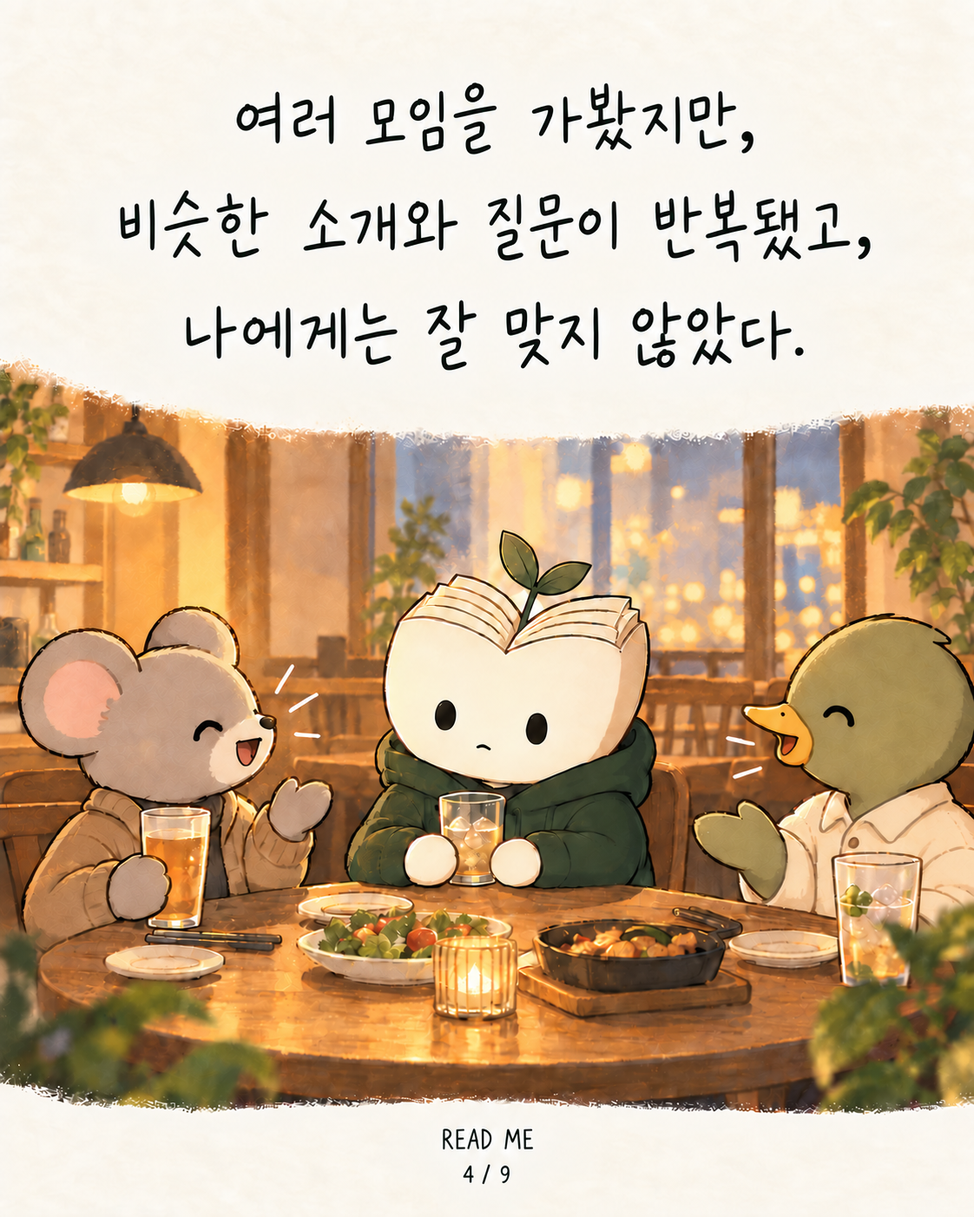
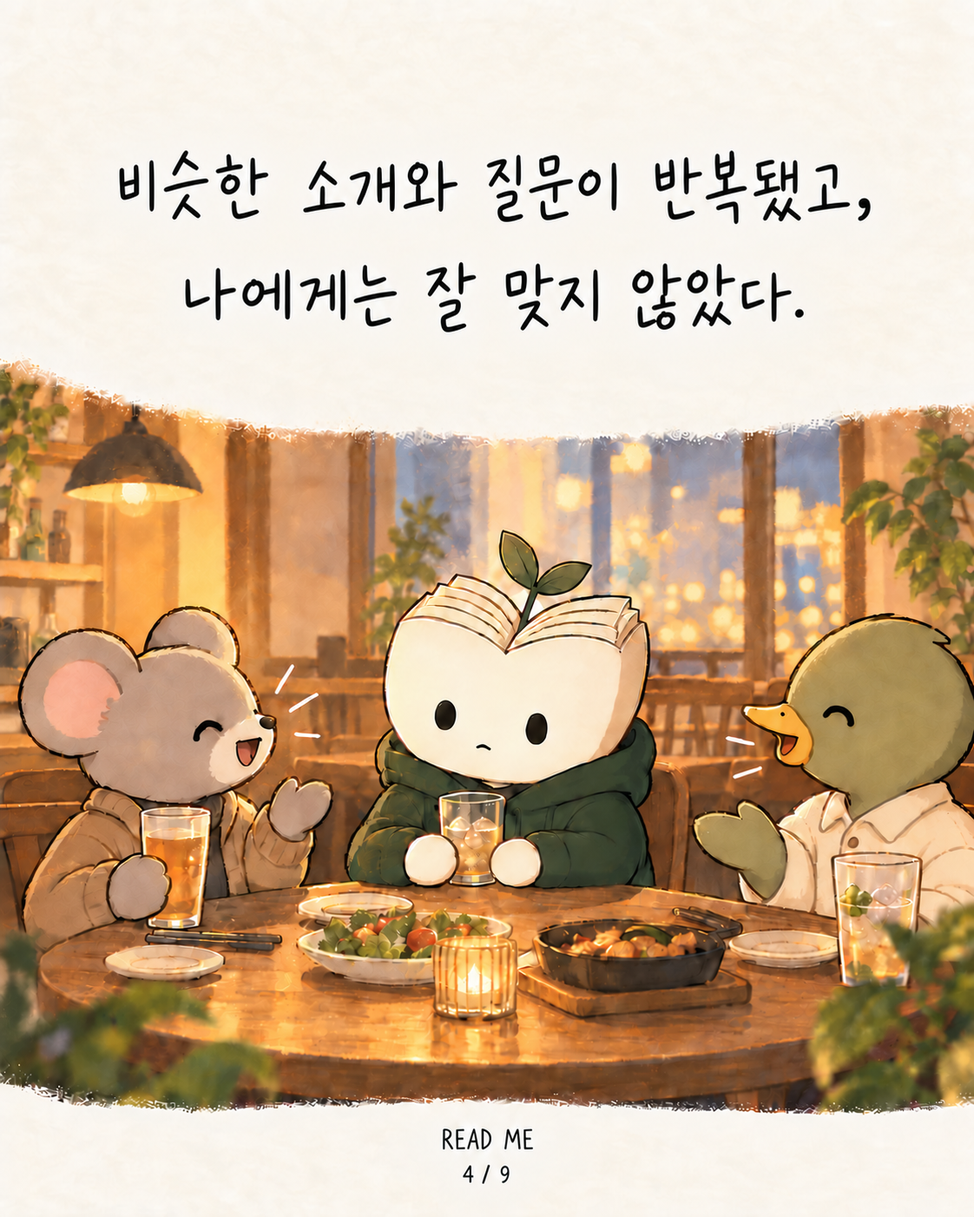
FIXED. 인스타툰 2편 4컷 중복 문구 수정

diff --git a/docs/social/전체-미리보기.html b/docs/social/전체-미리보기.html
@@ -1,4 +1,4 @@
-<!doctype html><html lang="ko"><head><meta charset="utf-8"><meta name="viewport" content="width=device-width,initial-scale=1"><title>READ ME 인스타툰 최종본</title><style>:root{--cream:#f7f3e7;--sand:#eadfc6;--sage:#9bae8f;--forest:#5b6b57;--ink:#3b3a34;--paper:#fffdf7;--muted:#716f65;--line:rgba(59,58,52,.14)}*{box-sizing:border-box}body{margin:0;background:var(--cream);color:var(--ink);font-family:"Noto Sans KR",sans-serif}main{max-width:1120px;margin:auto;padding:32px 24px}a{color:var(--forest);overflow-wrap:anywhere}nav{display:flex;flex-wrap:wrap;gap:12px}nav a{padding:10px;border:1px solid var(--line)}section{margin-top:48px}h1,h2{word-break:keep-all}.grid{display:grid;grid-template-columns:repeat(3,minmax(0,1fr));gap:16px}img{display:block;width:100%;height:auto}@media(max-width:820px){.grid{grid-template-columns:repeat(2,minmax(0,1fr))}}@media(max-width:430px){main{padding:20px 12px}.grid{grid-template-columns:1fr}}[hidden]{display:none!important}nav a[aria-current="page"]{background:var(--forest);color:var(--paper)}nav a:focus-visible{outline:2px solid var(--forest);outline-offset:3px}</style></head><body><main><h1>READ ME 인스타툰 최종본</h1><p>기존 1~8편과 7-1~7-5 확장편 · 총 103장. 각 편은 현재 폴더에서 수정합니다.</p><nav aria-label="편 선택"><a href="#1" aria-current="page">01편</a><a href="#2">02편</a><a href="#3">03편</a><a href="#4">04편</a><a href="#5">05편</a><a href="#6">06편</a><a href="#7">07편</a><a href="#7-1">7-1편</a><a href="#7-2">7-2편</a><a href="#7-3">7-3편</a><a href="#7-4">7-4편</a><a href="#7-5">7-5편</a><a href="#8">08편</a></nav><section id="1"><h2>01-인간관계</h2><p>10장 · <a href="01-인간관계/미리보기.html">이 편 보기</a></p><div class="grid"><a href="01-인간관계/01.png?v=f6530659d1"><img src="01-인간관계/01.png?v=f6530659d1" alt="01-인간관계 1장" loading="lazy"></a><a href="01-인간관계/02.png?v=2af6beccf6"><img src="01-인간관계/02.png?v=2af6beccf6" alt="01-인간관계 2장" loading="lazy"></a><a href="01-인간관계/03.png?v=92ff636abc"><img src="01-인간관계/03.png?v=92ff636abc" alt="01-인간관계 3장" loading="lazy"></a><a href="01-인간관계/04.png?v=a4715f626d"><img src="01-인간관계/04.png?v=a4715f626d" alt="01-인간관계 4장" loading="lazy"></a><a href="01-인간관계/05.png?v=0827a50b40"><img src="01-인간관계/05.png?v=0827a50b40" alt="01-인간관계 5장" loading="lazy"></a><a href="01-인간관계/06.png?v=0fdcc19c5c"><img src="01-인간관계/06.png?v=0fdcc19c5c" alt="01-인간관계 6장" loading="lazy"></a><a href="01-인간관계/07.png?v=472e8e2341"><img src="01-인간관계/07.png?v=472e8e2341" alt="01-인간관계 7장" loading="lazy"></a><a href="01-인간관계/08.png?v=42a75f7eb0"><img src="01-인간관계/08.png?v=42a75f7eb0" alt="01-인간관계 8장" loading="lazy"></a><a href="01-인간관계/09.png?v=77522bc16a"><img src="01-인간관계/09.png?v=77522bc16a" alt="01-인간관계 9장" loading="lazy"></a><a href="01-인간관계/10.png?v=ebeded8296"><img src="01-인간관계/10.png?v=ebeded8296" alt="01-인간관계 10장" loading="lazy"></a></div></section><section id="2" hidden><h2>02-결이맞는사람</h2><p>9장 · <a href="02-결이맞는사람/미리보기.html">이 편 보기</a></p><div class="grid"><a href="02-결이맞는사람/01.png?v=264bd3b8b0"><img src="02-결이맞는사람/01.png?v=264bd3b8b0" alt="02-결이맞는사람 1장" loading="lazy"></a><a href="02-결이맞는사람/02.png?v=4cbba1f130"><img src="02-결이맞는사람/02.png?v=4cbba1f130" alt="02-결이맞는사람 2장" loading="lazy"></a><a href="02-결이맞는사람/03.png?v=fdcf5b74c9"><img src="02-결이맞는사람/03.png?v=fdcf5b74c9" alt="02-결이맞는사람 3장" loading="lazy"></a><a href="02-결이맞는사람/04.png?v=973f494f32"><img src="02-결이맞는사람/04.png?v=973f494f32" alt="02-결이맞는사람 4장" loading="lazy"></a><a href="02-결이맞는사람/05.png?v=9de6945f77"><img src="02-결이맞는사람/05.png?v=9de6945f77" alt="02-결이맞는사람 5장" loading="lazy"></a><a href="02-결이맞는사람/06.png?v=71379b246e"><img src="02-결이맞는사람/06.png?v=71379b246e" alt="02-결이맞는사람 6장" loading="lazy"></a><a href="02-결이맞는사람/07.png?v=acae4ace5d"><img src="02-결이맞는사람/07.png?v=acae4ace5d" alt="02-결이맞는사람 7장" loading="lazy"></a><a href="02-결이맞는사람/08.png?v=5f58d21de6"><img src="02-결이맞는사람/08.png?v=5f58d21de6" alt="02-결이맞는사람 8장" loading="lazy"></a><a href="02-결이맞는사람/09.png?v=448ca64fa5"><img src="02-결이맞는사람/09.png?v=448ca64fa5" alt="02-결이맞는사람 9장" loading="lazy"></a></div></section><section id="3" hidden><h2>03-같이나아갈사람</h2><p>6장 · <a href="03-같이나아갈사람/미리보기.html">이 편 보기</a></p><div class="grid"><a href="03-같이나아갈사람/01.png?v=ed73741b11"><img src="03-같이나아갈사람/01.png?v=ed73741b11" alt="03-같이나아갈사람 1장" loading="lazy"></a><a href="03-같이나아갈사람/02.png?v=788a7e2821"><img src="03-같이나아갈사람/02.png?v=788a7e2821" alt="03-같이나아갈사람 2장" loading="lazy"></a><a href="03-같이나아갈사람/03.png?v=17601be4a8"><img src="03-같이나아갈사람/03.png?v=17601be4a8" alt="03-같이나아갈사람 3장" loading="lazy"></a><a href="03-같이나아갈사람/04.png?v=f4704627a1"><img src="03-같이나아갈사람/04.png?v=f4704627a1" alt="03-같이나아갈사람 4장" loading="lazy"></a><a href="03-같이나아갈사람/05.png?v=55ba4e1e06"><img src="03-같이나아갈사람/05.png?v=55ba4e1e06" alt="03-같이나아갈사람 5장" loading="lazy"></a><a href="03-같이나아갈사람/06.png?v=077c74721f"><img src="03-같이나아갈사람/06.png?v=077c74721f" alt="03-같이나아갈사람 6장" loading="lazy"></a></div></section><section id="4" hidden><h2>04-힘이되는사람</h2><p>7장 · <a href="04-힘이되는사람/미리보기.html">이 편 보기</a></p><div class="grid"><a href="04-힘이되는사람/01.png?v=8100d94b91"><img src="04-힘이되는사람/01.png?v=8100d94b91" alt="04-힘이되는사람 1장" loading="lazy"></a><a href="04-힘이되는사람/02.png?v=bfbad25659"><img src="04-힘이되는사람/02.png?v=bfbad25659" alt="04-힘이되는사람 2장" loading="lazy"></a><a href="04-힘이되는사람/03.png?v=6f98d75c57"><img src="04-힘이되는사람/03.png?v=6f98d75c57" alt="04-힘이되는사람 3장" loading="lazy"></a><a href="04-힘이되는사람/04.png?v=b64bd8e8cb"><img src="04-힘이되는사람/04.png?v=b64bd8e8cb" alt="04-힘이되는사람 4장" loading="lazy"></a><a href="04-힘이되는사람/05.png?v=ed8942b510"><img src="04-힘이되는사람/05.png?v=ed8942b510" alt="04-힘이되는사람 5장" loading="lazy"></a><a href="04-힘이되는사람/06.png?v=f673d6f54d"><img src="04-힘이되는사람/06.png?v=f673d6f54d" alt="04-힘이되는사람 6장" loading="lazy"></a><a href="04-힘이되는사람/07.png?v=acf8b9f665"><img src="04-힘이되는사람/07.png?v=acf8b9f665" alt="04-힘이되는사람 7장" loading="lazy"></a></div></section><section id="5" hidden><h2>05-환경의중요성</h2><p>9장 · <a href="05-환경의중요성/미리보기.html">이 편 보기</a></p><div class="grid"><a href="05-환경의중요성/01.png?v=124d4b9f5c"><img src="05-환경의중요성/01.png?v=124d4b9f5c" alt="05-환경의중요성 1장" loading="lazy"></a><a href="05-환경의중요성/02.png?v=54013d81f8"><img src="05-환경의중요성/02.png?v=54013d81f8" alt="05-환경의중요성 2장" loading="lazy"></a><a href="05-환경의중요성/03.png?v=f58ab16eda"><img src="05-환경의중요성/03.png?v=f58ab16eda" alt="05-환경의중요성 3장" loading="lazy"></a><a href="05-환경의중요성/04.png?v=979f421f6f"><img src="05-환경의중요성/04.png?v=979f421f6f" alt="05-환경의중요성 4장" loading="lazy"></a><a href="05-환경의중요성/05.png?v=1b3de04ac8"><img src="05-환경의중요성/05.png?v=1b3de04ac8" alt="05-환경의중요성 5장" loading="lazy"></a><a href="05-환경의중요성/06.png?v=ff394ed652"><img src="05-환경의중요성/06.png?v=ff394ed652" alt="05-환경의중요성 6장" loading="lazy"></a><a href="05-환경의중요성/07.png?v=fe9d3bcd30"><img src="05-환경의중요성/07.png?v=fe9d3bcd30" alt="05-환경의중요성 7장" loading="lazy"></a><a href="05-환경의중요성/08.png?v=44aca42c69"><img src="05-환경의중요성/08.png?v=44aca42c69" alt="05-환경의중요성 8장" loading="lazy"></a><a href="05-환경의중요성/09.png?v=e9567877d0"><img src="05-환경의중요성/09.png?v=e9567877d0" alt="05-환경의중요성 9장" loading="lazy"></a></div></section><section id="6" hidden><h2>06-직접만든이유</h2><p>7장 · <a href="06-직접만든이유/미리보기.html">이 편 보기</a></p><div class="grid"><a href="06-직접만든이유/01.png?v=6f16d05a30"><img src="06-직접만든이유/01.png?v=6f16d05a30" alt="06-직접만든이유 1장" loading="lazy"></a><a href="06-직접만든이유/02.png?v=5da92f9602"><img src="06-직접만든이유/02.png?v=5da92f9602" alt="06-직접만든이유 2장" loading="lazy"></a><a href="06-직접만든이유/03.png?v=ef615db151"><img src="06-직접만든이유/03.png?v=ef615db151" alt="06-직접만든이유 3장" loading="lazy"></a><a href="06-직접만든이유/04.png?v=55a07de5a8"><img src="06-직접만든이유/04.png?v=55a07de5a8" alt="06-직접만든이유 4장" loading="lazy"></a><a href="06-직접만든이유/05.png?v=c209f0e74f"><img src="06-직접만든이유/05.png?v=c209f0e74f" alt="06-직접만든이유 5장" loading="lazy"></a><a href="06-직접만든이유/06.png?v=84f44f9c7f"><img src="06-직접만든이유/06.png?v=84f44f9c7f" alt="06-직접만든이유 6장" loading="lazy"></a><a href="06-직접만든이유/07.png?v=9ae2be7dd7"><img src="06-직접만든이유/07.png?v=9ae2be7dd7" alt="06-직접만든이유 7장" loading="lazy"></a></div></section><section id="7" hidden><h2>07-마음이채워지는대화</h2><p>7장 · <a href="07-마음이채워지는대화/미리보기.html">이 편 보기</a></p><div class="grid"><a href="07-마음이채워지는대화/01.png?v=39b0405240"><img src="07-마음이채워지는대화/01.png?v=39b0405240" alt="07-마음이채워지는대화 1장" loading="lazy"></a><a href="07-마음이채워지는대화/02.png?v=e5f816d622"><img src="07-마음이채워지는대화/02.png?v=e5f816d622" alt="07-마음이채워지는대화 2장" loading="lazy"></a><a href="07-마음이채워지는대화/03.png?v=ae685cedb3"><img src="07-마음이채워지는대화/03.png?v=ae685cedb3" alt="07-마음이채워지는대화 3장" loading="lazy"></a><a href="07-마음이채워지는대화/04.png?v=a63e07f592"><img src="07-마음이채워지는대화/04.png?v=a63e07f592" alt="07-마음이채워지는대화 4장" loading="lazy"></a><a href="07-마음이채워지는대화/05.png?v=4ca097f0b0"><img src="07-마음이채워지는대화/05.png?v=4ca097f0b0" alt="07-마음이채워지는대화 5장" loading="lazy"></a><a href="07-마음이채워지는대화/06.png?v=09a7210a58"><img src="07-마음이채워지는대화/06.png?v=09a7210a58" alt="07-마음이채워지는대화 6장" loading="lazy"></a><a href="07-마음이채워지는대화/07.png?v=7f04851a70"><img src="07-마음이채워지는대화/07.png?v=7f04851a70" alt="07-마음이채워지는대화 7장" loading="lazy"></a></div></section><section id="7-1" hidden><h2>7-1-친한사람에게도-못했던말을-꺼냈다</h2><p>8장 · <a href="7-1-친한사람에게도-못했던말을-꺼냈다/미리보기.html">이 편 보기</a></p><div class="grid"><a href="7-1-친한사람에게도-못했던말을-꺼냈다/01.png?v=64ef2f2fa5"><img src="7-1-친한사람에게도-못했던말을-꺼냈다/01.png?v=64ef2f2fa5" alt="7-1-친한사람에게도-못했던말을-꺼냈다 1장" loading="lazy"></a><a href="7-1-친한사람에게도-못했던말을-꺼냈다/02.png?v=268a2c60f3"><img src="7-1-친한사람에게도-못했던말을-꺼냈다/02.png?v=268a2c60f3" alt="7-1-친한사람에게도-못했던말을-꺼냈다 2장" loading="lazy"></a><a href="7-1-친한사람에게도-못했던말을-꺼냈다/03.png?v=546cfdae7e"><img src="7-1-친한사람에게도-못했던말을-꺼냈다/03.png?v=546cfdae7e" alt="7-1-친한사람에게도-못했던말을-꺼냈다 3장" loading="lazy"></a><a href="7-1-친한사람에게도-못했던말을-꺼냈다/04.png?v=ec3f204fc7"><img src="7-1-친한사람에게도-못했던말을-꺼냈다/04.png?v=ec3f204fc7" alt="7-1-친한사람에게도-못했던말을-꺼냈다 4장" loading="lazy"></a><a href="7-1-친한사람에게도-못했던말을-꺼냈다/05.png?v=fe61a55f8c"><img src="7-1-친한사람에게도-못했던말을-꺼냈다/05.png?v=fe61a55f8c" alt="7-1-친한사람에게도-못했던말을-꺼냈다 5장" loading="lazy"></a><a href="7-1-친한사람에게도-못했던말을-꺼냈다/06.png?v=9ee9529ecf"><img src="7-1-친한사람에게도-못했던말을-꺼냈다/06.png?v=9ee9529ecf" alt="7-1-친한사람에게도-못했던말을-꺼냈다 6장" loading="lazy"></a><a href="7-1-친한사람에게도-못했던말을-꺼냈다/07.png?v=048ae1f4be"><img src="7-1-친한사람에게도-못했던말을-꺼냈다/07.png?v=048ae1f4be" alt="7-1-친한사람에게도-못했던말을-꺼냈다 7장" loading="lazy"></a><a href="7-1-친한사람에게도-못했던말을-꺼냈다/08.png?v=e48b834b40"><img src="7-1-친한사람에게도-못했던말을-꺼냈다/08.png?v=e48b834b40" alt="7-1-친한사람에게도-못했던말을-꺼냈다 8장" loading="lazy"></a></div></section><section id="7-2" hidden><h2>7-2-말하고나서야-내마음을-알았다</h2><p>8장 · <a href="7-2-말하고나서야-내마음을-알았다/미리보기.html">이 편 보기</a></p><div class="grid"><a href="7-2-말하고나서야-내마음을-알았다/01.png?v=459466cc53"><img src="7-2-말하고나서야-내마음을-알았다/01.png?v=459466cc53" alt="7-2-말하고나서야-내마음을-알았다 1장" loading="lazy"></a><a href="7-2-말하고나서야-내마음을-알았다/02.png?v=de228fa564"><img src="7-2-말하고나서야-내마음을-알았다/02.png?v=de228fa564" alt="7-2-말하고나서야-내마음을-알았다 2장" loading="lazy"></a><a href="7-2-말하고나서야-내마음을-알았다/03.png?v=a2d7ab2a9d"><img src="7-2-말하고나서야-내마음을-알았다/03.png?v=a2d7ab2a9d" alt="7-2-말하고나서야-내마음을-알았다 3장" loading="lazy"></a><a href="7-2-말하고나서야-내마음을-알았다/04.png?v=ffc8d2dd8b"><img src="7-2-말하고나서야-내마음을-알았다/04.png?v=ffc8d2dd8b" alt="7-2-말하고나서야-내마음을-알았다 4장" loading="lazy"></a><a href="7-2-말하고나서야-내마음을-알았다/05.png?v=e9c60defa1"><img src="7-2-말하고나서야-내마음을-알았다/05.png?v=e9c60defa1" alt="7-2-말하고나서야-내마음을-알았다 5장" loading="lazy"></a><a href="7-2-말하고나서야-내마음을-알았다/06.png?v=620fa4451c"><img src="7-2-말하고나서야-내마음을-알았다/06.png?v=620fa4451c" alt="7-2-말하고나서야-내마음을-알았다 6장" loading="lazy"></a><a href="7-2-말하고나서야-내마음을-알았다/07.png?v=569dfd7099"><img src="7-2-말하고나서야-내마음을-알았다/07.png?v=569dfd7099" alt="7-2-말하고나서야-내마음을-알았다 7장" loading="lazy"></a><a href="7-2-말하고나서야-내마음을-알았다/08.png?v=41411ef812"><img src="7-2-말하고나서야-내마음을-알았다/08.png?v=41411ef812" alt="7-2-말하고나서야-내마음을-알았다 8장" loading="lazy"></a></div></section><section id="7-3" hidden><h2>7-3-생각이다른데도-대화가편했다</h2><p>8장 · <a href="7-3-생각이다른데도-대화가편했다/미리보기.html">이 편 보기</a></p><div class="grid"><a href="7-3-생각이다른데도-대화가편했다/01.png?v=4daec09531"><img src="7-3-생각이다른데도-대화가편했다/01.png?v=4daec09531" alt="7-3-생각이다른데도-대화가편했다 1장" loading="lazy"></a><a href="7-3-생각이다른데도-대화가편했다/02.png?v=5244f608b3"><img src="7-3-생각이다른데도-대화가편했다/02.png?v=5244f608b3" alt="7-3-생각이다른데도-대화가편했다 2장" loading="lazy"></a><a href="7-3-생각이다른데도-대화가편했다/03.png?v=17dc23714d"><img src="7-3-생각이다른데도-대화가편했다/03.png?v=17dc23714d" alt="7-3-생각이다른데도-대화가편했다 3장" loading="lazy"></a><a href="7-3-생각이다른데도-대화가편했다/04.png?v=2b78159773"><img src="7-3-생각이다른데도-대화가편했다/04.png?v=2b78159773" alt="7-3-생각이다른데도-대화가편했다 4장" loading="lazy"></a><a href="7-3-생각이다른데도-대화가편했다/05.png?v=b54261920a"><img src="7-3-생각이다른데도-대화가편했다/05.png?v=b54261920a" alt="7-3-생각이다른데도-대화가편했다 5장" loading="lazy"></a><a href="7-3-생각이다른데도-대화가편했다/06.png?v=5a5409cac8"><img src="7-3-생각이다른데도-대화가편했다/06.png?v=5a5409cac8" alt="7-3-생각이다른데도-대화가편했다 6장" loading="lazy"></a><a href="7-3-생각이다른데도-대화가편했다/07.png?v=15a74822e1"><img src="7-3-생각이다른데도-대화가편했다/07.png?v=15a74822e1" alt="7-3-생각이다른데도-대화가편했다 7장" loading="lazy"></a><a href="7-3-생각이다른데도-대화가편했다/08.png?v=3c578579ec"><img src="7-3-생각이다른데도-대화가편했다/08.png?v=3c578579ec" alt="7-3-생각이다른데도-대화가편했다 8장" loading="lazy"></a></div></section><section id="7-4" hidden><h2>7-4-쌓아두던책을-펼치게됐다</h2><p>8장 · <a href="7-4-쌓아두던책을-펼치게됐다/미리보기.html">이 편 보기</a></p><div class="grid"><a href="7-4-쌓아두던책을-펼치게됐다/01.png?v=db281463e6"><img src="7-4-쌓아두던책을-펼치게됐다/01.png?v=db281463e6" alt="7-4-쌓아두던책을-펼치게됐다 1장" loading="lazy"></a><a href="7-4-쌓아두던책을-펼치게됐다/02.png?v=2eeb449bf7"><img src="7-4-쌓아두던책을-펼치게됐다/02.png?v=2eeb449bf7" alt="7-4-쌓아두던책을-펼치게됐다 2장" loading="lazy"></a><a href="7-4-쌓아두던책을-펼치게됐다/03.png?v=eb45c9f756"><img src="7-4-쌓아두던책을-펼치게됐다/03.png?v=eb45c9f756" alt="7-4-쌓아두던책을-펼치게됐다 3장" loading="lazy"></a><a href="7-4-쌓아두던책을-펼치게됐다/04.png?v=621b312949"><img src="7-4-쌓아두던책을-펼치게됐다/04.png?v=621b312949" alt="7-4-쌓아두던책을-펼치게됐다 4장" loading="lazy"></a><a href="7-4-쌓아두던책을-펼치게됐다/05.png?v=038d7d4cd8"><img src="7-4-쌓아두던책을-펼치게됐다/05.png?v=038d7d4cd8" alt="7-4-쌓아두던책을-펼치게됐다 5장" loading="lazy"></a><a href="7-4-쌓아두던책을-펼치게됐다/06.png?v=ff6a914471"><img src="7-4-쌓아두던책을-펼치게됐다/06.png?v=ff6a914471" alt="7-4-쌓아두던책을-펼치게됐다 6장" loading="lazy"></a><a href="7-4-쌓아두던책을-펼치게됐다/07.png?v=88f6fe236f"><img src="7-4-쌓아두던책을-펼치게됐다/07.png?v=88f6fe236f" alt="7-4-쌓아두던책을-펼치게됐다 7장" loading="lazy"></a><a href="7-4-쌓아두던책을-펼치게됐다/08.png?v=d5367575fe"><img src="7-4-쌓아두던책을-펼치게됐다/08.png?v=d5367575fe" alt="7-4-쌓아두던책을-펼치게됐다 8장" loading="lazy"></a></div></section><section id="7-5" hidden><h2>7-5-혼자였다면-못했을생각들이-생겼다</h2><p>9장 · <a href="7-5-혼자였다면-못했을생각들이-생겼다/미리보기.html">이 편 보기</a></p><div class="grid"><a href="7-5-혼자였다면-못했을생각들이-생겼다/01.png?v=beee2837f3"><img src="7-5-혼자였다면-못했을생각들이-생겼다/01.png?v=beee2837f3" alt="7-5-혼자였다면-못했을생각들이-생겼다 1장" loading="lazy"></a><a href="7-5-혼자였다면-못했을생각들이-생겼다/02.png?v=dbdb467c90"><img src="7-5-혼자였다면-못했을생각들이-생겼다/02.png?v=dbdb467c90" alt="7-5-혼자였다면-못했을생각들이-생겼다 2장" loading="lazy"></a><a href="7-5-혼자였다면-못했을생각들이-생겼다/03.png?v=ce06197ff1"><img src="7-5-혼자였다면-못했을생각들이-생겼다/03.png?v=ce06197ff1" alt="7-5-혼자였다면-못했을생각들이-생겼다 3장" loading="lazy"></a><a href="7-5-혼자였다면-못했을생각들이-생겼다/04.png?v=ff2d36201b"><img src="7-5-혼자였다면-못했을생각들이-생겼다/04.png?v=ff2d36201b" alt="7-5-혼자였다면-못했을생각들이-생겼다 4장" loading="lazy"></a><a href="7-5-혼자였다면-못했을생각들이-생겼다/05.png?v=ee09d364d9"><img src="7-5-혼자였다면-못했을생각들이-생겼다/05.png?v=ee09d364d9" alt="7-5-혼자였다면-못했을생각들이-생겼다 5장" loading="lazy"></a><a href="7-5-혼자였다면-못했을생각들이-생겼다/06.png?v=91441a97fa"><img src="7-5-혼자였다면-못했을생각들이-생겼다/06.png?v=91441a97fa" alt="7-5-혼자였다면-못했을생각들이-생겼다 6장" loading="lazy"></a><a href="7-5-혼자였다면-못했을생각들이-생겼다/07.png?v=6c60c5229f"><img src="7-5-혼자였다면-못했을생각들이-생겼다/07.png?v=6c60c5229f" alt="7-5-혼자였다면-못했을생각들이-생겼다 7장" loading="lazy"></a><a href="7-5-혼자였다면-못했을생각들이-생겼다/08.png?v=36e4ffed61"><img src="7-5-혼자였다면-못했을생각들이-생겼다/08.png?v=36e4ffed61" alt="7-5-혼자였다면-못했을생각들이-생겼다 8장" loading="lazy"></a><a href="7-5-혼자였다면-못했을생각들이-생겼다/09.png?v=bb17efc276"><img src="7-5-혼자였다면-못했을생각들이-생겼다/09.png?v=bb17efc276" alt="7-5-혼자였다면-못했을생각들이-생겼다 9장" loading="lazy"></a></div></section><section id="8" hidden><h2>8편 · 독서모임을 하고 생긴 변화</h2><p>7장 · <a href="08-일상의변화/미리보기.html">이 편 보기</a></p><div class="grid"><a href="08-일상의변화/01.png?v=23f6775a01"><img src="08-일상의변화/01.png?v=23f6775a01" alt="08-일상의변화 1장" loading="lazy"></a><a href="08-일상의변화/02.png?v=1e1b2d4c82"><img src="08-일상의변화/02.png?v=1e1b2d4c82" alt="08-일상의변화 2장" loading="lazy"></a><a href="08-일상의변화/03.png?v=e849ab9551"><img src="08-일상의변화/03.png?v=e849ab9551" alt="08-일상의변화 3장" loading="lazy"></a><a href="08-일상의변화/04.png?v=348339682b"><img src="08-일상의변화/04.png?v=348339682b" alt="08-일상의변화 4장" loading="lazy"></a><a href="08-일상의변화/05.png?v=f0ec7dada1"><img src="08-일상의변화/05.png?v=f0ec7dada1" alt="08-일상의변화 5장" loading="lazy"></a><a href="08-일상의변화/06.png?v=713523d819"><img src="08-일상의변화/06.png?v=713523d819" alt="08-일상의변화 6장" loading="lazy"></a><a href="08-일상의변화/07.png?v=fcbc16c5d3"><img src="08-일상의변화/07.png?v=fcbc16c5d3" alt="08-일상의변화 7장" loading="lazy"></a></div></section></main><script>
+<!doctype html><html lang="ko"><head><meta charset="utf-8"><meta name="viewport" content="width=device-width,initial-scale=1"><title>READ ME 인스타툰 최종본</title><style>:root{--cream:#f7f3e7;--sand:#eadfc6;--sage:#9bae8f;--forest:#5b6b57;--ink:#3b3a34;--paper:#fffdf7;--muted:#716f65;--line:rgba(59,58,52,.14)}*{box-sizing:border-box}body{margin:0;background:var(--cream);color:var(--ink);font-family:"Noto Sans KR",sans-serif}main{max-width:1120px;margin:auto;padding:32px 24px}a{color:var(--forest);overflow-wrap:anywhere}nav{display:flex;flex-wrap:wrap;gap:12px}nav a{padding:10px;border:1px solid var(--line)}section{margin-top:48px}h1,h2{word-break:keep-all}.grid{display:grid;grid-template-columns:repeat(3,minmax(0,1fr));gap:16px}img{display:block;width:100%;height:auto}@media(max-width:820px){.grid{grid-template-columns:repeat(2,minmax(0,1fr))}}@media(max-width:430px){main{padding:20px 12px}.grid{grid-template-columns:1fr}}[hidden]{display:none!important}nav a[aria-current="page"]{background:var(--forest);color:var(--paper)}nav a:focus-visible{outline:2px solid var(--forest);outline-offset:3px}</style></head><body><main><h1>READ ME 인스타툰 최종본</h1><p>기존 1~8편과 7-1~7-5 확장편 · 총 103장. 각 편은 현재 폴더에서 수정합니다.</p><nav aria-label="편 선택"><a href="#1" aria-current="page">01편</a><a href="#2">02편</a><a href="#3">03편</a><a href="#4">04편</a><a href="#5">05편</a><a href="#6">06편</a><a href="#7">07편</a><a href="#7-1">7-1편</a><a href="#7-2">7-2편</a><a href="#7-3">7-3편</a><a href="#7-4">7-4편</a><a href="#7-5">7-5편</a><a href="#8">08편</a></nav><section id="1"><h2>01-인간관계</h2><p>10장 · <a href="01-인간관계/미리보기.html">이 편 보기</a></p><div class="grid"><a href="01-인간관계/01.png?v=f6530659d1"><img src="01-인간관계/01.png?v=f6530659d1" alt="01-인간관계 1장" loading="lazy"></a><a href="01-인간관계/02.png?v=2af6beccf6"><img src="01-인간관계/02.png?v=2af6beccf6" alt="01-인간관계 2장" loading="lazy"></a><a href="01-인간관계/03.png?v=92ff636abc"><img src="01-인간관계/03.png?v=92ff636abc" alt="01-인간관계 3장" loading="lazy"></a><a href="01-인간관계/04.png?v=a4715f626d"><img src="01-인간관계/04.png?v=a4715f626d" alt="01-인간관계 4장" loading="lazy"></a><a href="01-인간관계/05.png?v=0827a50b40"><img src="01-인간관계/05.png?v=0827a50b40" alt="01-인간관계 5장" loading="lazy"></a><a href="01-인간관계/06.png?v=0fdcc19c5c"><img src="01-인간관계/06.png?v=0fdcc19c5c" alt="01-인간관계 6장" loading="lazy"></a><a href="01-인간관계/07.png?v=472e8e2341"><img src="01-인간관계/07.png?v=472e8e2341" alt="01-인간관계 7장" loading="lazy"></a><a href="01-인간관계/08.png?v=42a75f7eb0"><img src="01-인간관계/08.png?v=42a75f7eb0" alt="01-인간관계 8장" loading="lazy"></a><a href="01-인간관계/09.png?v=77522bc16a"><img src="01-인간관계/09.png?v=77522bc16a" alt="01-인간관계 9장" loading="lazy"></a><a href="01-인간관계/10.png?v=ebeded8296"><img src="01-인간관계/10.png?v=ebeded8296" alt="01-인간관계 10장" loading="lazy"></a></div></section><section id="2" hidden><h2>02-결이맞는사람</h2><p>9장 · <a href="02-결이맞는사람/미리보기.html">이 편 보기</a></p><div class="grid"><a href="02-결이맞는사람/01.png?v=264bd3b8b0"><img src="02-결이맞는사람/01.png?v=264bd3b8b0" alt="02-결이맞는사람 1장" loading="lazy"></a><a href="02-결이맞는사람/02.png?v=4cbba1f130"><img src="02-결이맞는사람/02.png?v=4cbba1f130" alt="02-결이맞는사람 2장" loading="lazy"></a><a href="02-결이맞는사람/03.png?v=fdcf5b74c9"><img src="02-결이맞는사람/03.png?v=fdcf5b74c9" alt="02-결이맞는사람 3장" loading="lazy"></a><a href="02-결이맞는사람/04.png?v=07fdb82af9"><img src="02-결이맞는사람/04.png?v=07fdb82af9" alt="02-결이맞는사람 4장" loading="lazy"></a><a href="02-결이맞는사람/05.png?v=9de6945f77"><img src="02-결이맞는사람/05.png?v=9de6945f77" alt="02-결이맞는사람 5장" loading="lazy"></a><a href="02-결이맞는사람/06.png?v=71379b246e"><img src="02-결이맞는사람/06.png?v=71379b246e" alt="02-결이맞는사람 6장" loading="lazy"></a><a href="02-결이맞는사람/07.png?v=acae4ace5d"><img src="02-결이맞는사람/07.png?v=acae4ace5d" alt="02-결이맞는사람 7장" loading="lazy"></a><a href="02-결이맞는사람/08.png?v=5f58d21de6"><img src="02-결이맞는사람/08.png?v=5f58d21de6" alt="02-결이맞는사람 8장" loading="lazy"></a><a href="02-결이맞는사람/09.png?v=448ca64fa5"><img src="02-결이맞는사람/09.png?v=448ca64fa5" alt="02-결이맞는사람 9장" loading="lazy"></a></div></section><section id="3" hidden><h2>03-같이나아갈사람</h2><p>6장 · <a href="03-같이나아갈사람/미리보기.html">이 편 보기</a></p><div class="grid"><a href="03-같이나아갈사람/01.png?v=ed73741b11"><img src="03-같이나아갈사람/01.png?v=ed73741b11" alt="03-같이나아갈사람 1장" loading="lazy"></a><a href="03-같이나아갈사람/02.png?v=788a7e2821"><img src="03-같이나아갈사람/02.png?v=788a7e2821" alt="03-같이나아갈사람 2장" loading="lazy"></a><a href="03-같이나아갈사람/03.png?v=17601be4a8"><img src="03-같이나아갈사람/03.png?v=17601be4a8" alt="03-같이나아갈사람 3장" loading="lazy"></a><a href="03-같이나아갈사람/04.png?v=f4704627a1"><img src="03-같이나아갈사람/04.png?v=f4704627a1" alt="03-같이나아갈사람 4장" loading="lazy"></a><a href="03-같이나아갈사람/05.png?v=55ba4e1e06"><img src="03-같이나아갈사람/05.png?v=55ba4e1e06" alt="03-같이나아갈사람 5장" loading="lazy"></a><a href="03-같이나아갈사람/06.png?v=077c74721f"><img src="03-같이나아갈사람/06.png?v=077c74721f" alt="03-같이나아갈사람 6장" loading="lazy"></a></div></section><section id="4" hidden><h2>04-힘이되는사람</h2><p>7장 · <a href="04-힘이되는사람/미리보기.html">이 편 보기</a></p><div class="grid"><a href="04-힘이되는사람/01.png?v=8100d94b91"><img src="04-힘이되는사람/01.png?v=8100d94b91" alt="04-힘이되는사람 1장" loading="lazy"></a><a href="04-힘이되는사람/02.png?v=bfbad25659"><img src="04-힘이되는사람/02.png?v=bfbad25659" alt="04-힘이되는사람 2장" loading="lazy"></a><a href="04-힘이되는사람/03.png?v=6f98d75c57"><img src="04-힘이되는사람/03.png?v=6f98d75c57" alt="04-힘이되는사람 3장" loading="lazy"></a><a href="04-힘이되는사람/04.png?v=b64bd8e8cb"><img src="04-힘이되는사람/04.png?v=b64bd8e8cb" alt="04-힘이되는사람 4장" loading="lazy"></a><a href="04-힘이되는사람/05.png?v=ed8942b510"><img src="04-힘이되는사람/05.png?v=ed8942b510" alt="04-힘이되는사람 5장" loading="lazy"></a><a href="04-힘이되는사람/06.png?v=f673d6f54d"><img src="04-힘이되는사람/06.png?v=f673d6f54d" alt="04-힘이되는사람 6장" loading="lazy"></a><a href="04-힘이되는사람/07.png?v=acf8b9f665"><img src="04-힘이되는사람/07.png?v=acf8b9f665" alt="04-힘이되는사람 7장" loading="lazy"></a></div></section><section id="5" hidden><h2>05-환경의중요성</h2><p>9장 · <a href="05-환경의중요성/미리보기.html">이 편 보기</a></p><div class="grid"><a href="05-환경의중요성/01.png?v=124d4b9f5c"><img src="05-환경의중요성/01.png?v=124d4b9f5c" alt="05-환경의중요성 1장" loading="lazy"></a><a href="05-환경의중요성/02.png?v=54013d81f8"><img src="05-환경의중요성/02.png?v=54013d81f8" alt="05-환경의중요성 2장" loading="lazy"></a><a href="05-환경의중요성/03.png?v=f58ab16eda"><img src="05-환경의중요성/03.png?v=f58ab16eda" alt="05-환경의중요성 3장" loading="lazy"></a><a href="05-환경의중요성/04.png?v=979f421f6f"><img src="05-환경의중요성/04.png?v=979f421f6f" alt="05-환경의중요성 4장" loading="lazy"></a><a href="05-환경의중요성/05.png?v=1b3de04ac8"><img src="05-환경의중요성/05.png?v=1b3de04ac8" alt="05-환경의중요성 5장" loading="lazy"></a><a href="05-환경의중요성/06.png?v=ff394ed652"><img src="05-환경의중요성/06.png?v=ff394ed652" alt="05-환경의중요성 6장" loading="lazy"></a><a href="05-환경의중요성/07.png?v=fe9d3bcd30"><img src="05-환경의중요성/07.png?v=fe9d3bcd30" alt="05-환경의중요성 7장" loading="lazy"></a><a href="05-환경의중요성/08.png?v=44aca42c69"><img src="05-환경의중요성/08.png?v=44aca42c69" alt="05-환경의중요성 8장" loading="lazy"></a><a href="05-환경의중요성/09.png?v=e9567877d0"><img src="05-환경의중요성/09.png?v=e9567877d0" alt="05-환경의중요성 9장" loading="lazy"></a></div></section><section id="6" hidden><h2>06-직접만든이유</h2><p>7장 · <a href="06-직접만든이유/미리보기.html">이 편 보기</a></p><div class="grid"><a href="06-직접만든이유/01.png?v=6f16d05a30"><img src="06-직접만든이유/01.png?v=6f16d05a30" alt="06-직접만든이유 1장" loading="lazy"></a><a href="06-직접만든이유/02.png?v=5da92f9602"><img src="06-직접만든이유/02.png?v=5da92f9602" alt="06-직접만든이유 2장" loading="lazy"></a><a href="06-직접만든이유/03.png?v=ef615db151"><img src="06-직접만든이유/03.png?v=ef615db151" alt="06-직접만든이유 3장" loading="lazy"></a><a href="06-직접만든이유/04.png?v=55a07de5a8"><img src="06-직접만든이유/04.png?v=55a07de5a8" alt="06-직접만든이유 4장" loading="lazy"></a><a href="06-직접만든이유/05.png?v=c209f0e74f"><img src="06-직접만든이유/05.png?v=c209f0e74f" alt="06-직접만든이유 5장" loading="lazy"></a><a href="06-직접만든이유/06.png?v=84f44f9c7f"><img src="06-직접만든이유/06.png?v=84f44f9c7f" alt="06-직접만든이유 6장" loading="lazy"></a><a href="06-직접만든이유/07.png?v=9ae2be7dd7"><img src="06-직접만든이유/07.png?v=9ae2be7dd7" alt="06-직접만든이유 7장" loading="lazy"></a></div></section><section id="7" hidden><h2>07-마음이채워지는대화</h2><p>7장 · <a href="07-마음이채워지는대화/미리보기.html">이 편 보기</a></p><div class="grid"><a href="07-마음이채워지는대화/01.png?v=39b0405240"><img src="07-마음이채워지는대화/01.png?v=39b0405240" alt="07-마음이채워지는대화 1장" loading="lazy"></a><a href="07-마음이채워지는대화/02.png?v=e5f816d622"><img src="07-마음이채워지는대화/02.png?v=e5f816d622" alt="07-마음이채워지는대화 2장" loading="lazy"></a><a href="07-마음이채워지는대화/03.png?v=ae685cedb3"><img src="07-마음이채워지는대화/03.png?v=ae685cedb3" alt="07-마음이채워지는대화 3장" loading="lazy"></a><a href="07-마음이채워지는대화/04.png?v=a63e07f592"><img src="07-마음이채워지는대화/04.png?v=a63e07f592" alt="07-마음이채워지는대화 4장" loading="lazy"></a><a href="07-마음이채워지는대화/05.png?v=4ca097f0b0"><img src="07-마음이채워지는대화/05.png?v=4ca097f0b0" alt="07-마음이채워지는대화 5장" loading="lazy"></a><a href="07-마음이채워지는대화/06.png?v=09a7210a58"><img src="07-마음이채워지는대화/06.png?v=09a7210a58" alt="07-마음이채워지는대화 6장" loading="lazy"></a><a href="07-마음이채워지는대화/07.png?v=7f04851a70"><img src="07-마음이채워지는대화/07.png?v=7f04851a70" alt="07-마음이채워지는대화 7장" loading="lazy"></a></div></section><section id="7-1" hidden><h2>7-1-친한사람에게도-못했던말을-꺼냈다</h2><p>8장 · <a href="7-1-친한사람에게도-못했던말을-꺼냈다/미리보기.html">이 편 보기</a></p><div class="grid"><a href="7-1-친한사람에게도-못했던말을-꺼냈다/01.png?v=64ef2f2fa5"><img src="7-1-친한사람에게도-못했던말을-꺼냈다/01.png?v=64ef2f2fa5" alt="7-1-친한사람에게도-못했던말을-꺼냈다 1장" loading="lazy"></a><a href="7-1-친한사람에게도-못했던말을-꺼냈다/02.png?v=268a2c60f3"><img src="7-1-친한사람에게도-못했던말을-꺼냈다/02.png?v=268a2c60f3" alt="7-1-친한사람에게도-못했던말을-꺼냈다 2장" loading="lazy"></a><a href="7-1-친한사람에게도-못했던말을-꺼냈다/03.png?v=546cfdae7e"><img src="7-1-친한사람에게도-못했던말을-꺼냈다/03.png?v=546cfdae7e" alt="7-1-친한사람에게도-못했던말을-꺼냈다 3장" loading="lazy"></a><a href="7-1-친한사람에게도-못했던말을-꺼냈다/04.png?v=ec3f204fc7"><img src="7-1-친한사람에게도-못했던말을-꺼냈다/04.png?v=ec3f204fc7" alt="7-1-친한사람에게도-못했던말을-꺼냈다 4장" loading="lazy"></a><a href="7-1-친한사람에게도-못했던말을-꺼냈다/05.png?v=fe61a55f8c"><img src="7-1-친한사람에게도-못했던말을-꺼냈다/05.png?v=fe61a55f8c" alt="7-1-친한사람에게도-못했던말을-꺼냈다 5장" loading="lazy"></a><a href="7-1-친한사람에게도-못했던말을-꺼냈다/06.png?v=9ee9529ecf"><img src="7-1-친한사람에게도-못했던말을-꺼냈다/06.png?v=9ee9529ecf" alt="7-1-친한사람에게도-못했던말을-꺼냈다 6장" loading="lazy"></a><a href="7-1-친한사람에게도-못했던말을-꺼냈다/07.png?v=048ae1f4be"><img src="7-1-친한사람에게도-못했던말을-꺼냈다/07.png?v=048ae1f4be" alt="7-1-친한사람에게도-못했던말을-꺼냈다 7장" loading="lazy"></a><a href="7-1-친한사람에게도-못했던말을-꺼냈다/08.png?v=e48b834b40"><img src="7-1-친한사람에게도-못했던말을-꺼냈다/08.png?v=e48b834b40" alt="7-1-친한사람에게도-못했던말을-꺼냈다 8장" loading="lazy"></a></div></section><section id="7-2" hidden><h2>7-2-말하고나서야-내마음을-알았다</h2><p>8장 · <a href="7-2-말하고나서야-내마음을-알았다/미리보기.html">이 편 보기</a></p><div class="grid"><a href="7-2-말하고나서야-내마음을-알았다/01.png?v=459466cc53"><img src="7-2-말하고나서야-내마음을-알았다/01.png?v=459466cc53" alt="7-2-말하고나서야-내마음을-알았다 1장" loading="lazy"></a><a href="7-2-말하고나서야-내마음을-알았다/02.png?v=de228fa564"><img src="7-2-말하고나서야-내마음을-알았다/02.png?v=de228fa564" alt="7-2-말하고나서야-내마음을-알았다 2장" loading="lazy"></a><a href="7-2-말하고나서야-내마음을-알았다/03.png?v=a2d7ab2a9d"><img src="7-2-말하고나서야-내마음을-알았다/03.png?v=a2d7ab2a9d" alt="7-2-말하고나서야-내마음을-알았다 3장" loading="lazy"></a><a href="7-2-말하고나서야-내마음을-알았다/04.png?v=ffc8d2dd8b"><img src="7-2-말하고나서야-내마음을-알았다/04.png?v=ffc8d2dd8b" alt="7-2-말하고나서야-내마음을-알았다 4장" loading="lazy"></a><a href="7-2-말하고나서야-내마음을-알았다/05.png?v=e9c60defa1"><img src="7-2-말하고나서야-내마음을-알았다/05.png?v=e9c60defa1" alt="7-2-말하고나서야-내마음을-알았다 5장" loading="lazy"></a><a href="7-2-말하고나서야-내마음을-알았다/06.png?v=620fa4451c"><img src="7-2-말하고나서야-내마음을-알았다/06.png?v=620fa4451c" alt="7-2-말하고나서야-내마음을-알았다 6장" loading="lazy"></a><a href="7-2-말하고나서야-내마음을-알았다/07.png?v=569dfd7099"><img src="7-2-말하고나서야-내마음을-알았다/07.png?v=569dfd7099" alt="7-2-말하고나서야-내마음을-알았다 7장" loading="lazy"></a><a href="7-2-말하고나서야-내마음을-알았다/08.png?v=41411ef812"><img src="7-2-말하고나서야-내마음을-알았다/08.png?v=41411ef812" alt="7-2-말하고나서야-내마음을-알았다 8장" loading="lazy"></a></div></section><section id="7-3" hidden><h2>7-3-생각이다른데도-대화가편했다</h2><p>8장 · <a href="7-3-생각이다른데도-대화가편했다/미리보기.html">이 편 보기</a></p><div class="grid"><a href="7-3-생각이다른데도-대화가편했다/01.png?v=4daec09531"><img src="7-3-생각이다른데도-대화가편했다/01.png?v=4daec09531" alt="7-3-생각이다른데도-대화가편했다 1장" loading="lazy"></a><a href="7-3-생각이다른데도-대화가편했다/02.png?v=5244f608b3"><img src="7-3-생각이다른데도-대화가편했다/02.png?v=5244f608b3" alt="7-3-생각이다른데도-대화가편했다 2장" loading="lazy"></a><a href="7-3-생각이다른데도-대화가편했다/03.png?v=17dc23714d"><img src="7-3-생각이다른데도-대화가편했다/03.png?v=17dc23714d" alt="7-3-생각이다른데도-대화가편했다 3장" loading="lazy"></a><a href="7-3-생각이다른데도-대화가편했다/04.png?v=2b78159773"><img src="7-3-생각이다른데도-대화가편했다/04.png?v=2b78159773" alt="7-3-생각이다른데도-대화가편했다 4장" loading="lazy"></a><a href="7-3-생각이다른데도-대화가편했다/05.png?v=b54261920a"><img src="7-3-생각이다른데도-대화가편했다/05.png?v=b54261920a" alt="7-3-생각이다른데도-대화가편했다 5장" loading="lazy"></a><a href="7-3-생각이다른데도-대화가편했다/06.png?v=5a5409cac8"><img src="7-3-생각이다른데도-대화가편했다/06.png?v=5a5409cac8" alt="7-3-생각이다른데도-대화가편했다 6장" loading="lazy"></a><a href="7-3-생각이다른데도-대화가편했다/07.png?v=15a74822e1"><img src="7-3-생각이다른데도-대화가편했다/07.png?v=15a74822e1" alt="7-3-생각이다른데도-대화가편했다 7장" loading="lazy"></a><a href="7-3-생각이다른데도-대화가편했다/08.png?v=3c578579ec"><img src="7-3-생각이다른데도-대화가편했다/08.png?v=3c578579ec" alt="7-3-생각이다른데도-대화가편했다 8장" loading="lazy"></a></div></section><section id="7-4" hidden><h2>7-4-쌓아두던책을-펼치게됐다</h2><p>8장 · <a href="7-4-쌓아두던책을-펼치게됐다/미리보기.html">이 편 보기</a></p><div class="grid"><a href="7-4-쌓아두던책을-펼치게됐다/01.png?v=db281463e6"><img src="7-4-쌓아두던책을-펼치게됐다/01.png?v=db281463e6" alt="7-4-쌓아두던책을-펼치게됐다 1장" loading="lazy"></a><a href="7-4-쌓아두던책을-펼치게됐다/02.png?v=2eeb449bf7"><img src="7-4-쌓아두던책을-펼치게됐다/02.png?v=2eeb449bf7" alt="7-4-쌓아두던책을-펼치게됐다 2장" loading="lazy"></a><a href="7-4-쌓아두던책을-펼치게됐다/03.png?v=eb45c9f756"><img src="7-4-쌓아두던책을-펼치게됐다/03.png?v=eb45c9f756" alt="7-4-쌓아두던책을-펼치게됐다 3장" loading="lazy"></a><a href="7-4-쌓아두던책을-펼치게됐다/04.png?v=621b312949"><img src="7-4-쌓아두던책을-펼치게됐다/04.png?v=621b312949" alt="7-4-쌓아두던책을-펼치게됐다 4장" loading="lazy"></a><a href="7-4-쌓아두던책을-펼치게됐다/05.png?v=038d7d4cd8"><img src="7-4-쌓아두던책을-펼치게됐다/05.png?v=038d7d4cd8" alt="7-4-쌓아두던책을-펼치게됐다 5장" loading="lazy"></a><a href="7-4-쌓아두던책을-펼치게됐다/06.png?v=ff6a914471"><img src="7-4-쌓아두던책을-펼치게됐다/06.png?v=ff6a914471" alt="7-4-쌓아두던책을-펼치게됐다 6장" loading="lazy"></a><a href="7-4-쌓아두던책을-펼치게됐다/07.png?v=88f6fe236f"><img src="7-4-쌓아두던책을-펼치게됐다/07.png?v=88f6fe236f" alt="7-4-쌓아두던책을-펼치게됐다 7장" loading="lazy"></a><a href="7-4-쌓아두던책을-펼치게됐다/08.png?v=d5367575fe"><img src="7-4-쌓아두던책을-펼치게됐다/08.png?v=d5367575fe" alt="7-4-쌓아두던책을-펼치게됐다 8장" loading="lazy"></a></div></section><section id="7-5" hidden><h2>7-5-혼자였다면-못했을생각들이-생겼다</h2><p>9장 · <a href="7-5-혼자였다면-못했을생각들이-생겼다/미리보기.html">이 편 보기</a></p><div class="grid"><a href="7-5-혼자였다면-못했을생각들이-생겼다/01.png?v=beee2837f3"><img src="7-5-혼자였다면-못했을생각들이-생겼다/01.png?v=beee2837f3" alt="7-5-혼자였다면-못했을생각들이-생겼다 1장" loading="lazy"></a><a href="7-5-혼자였다면-못했을생각들이-생겼다/02.png?v=dbdb467c90"><img src="7-5-혼자였다면-못했을생각들이-생겼다/02.png?v=dbdb467c90" alt="7-5-혼자였다면-못했을생각들이-생겼다 2장" loading="lazy"></a><a href="7-5-혼자였다면-못했을생각들이-생겼다/03.png?v=ce06197ff1"><img src="7-5-혼자였다면-못했을생각들이-생겼다/03.png?v=ce06197ff1" alt="7-5-혼자였다면-못했을생각들이-생겼다 3장" loading="lazy"></a><a href="7-5-혼자였다면-못했을생각들이-생겼다/04.png?v=ff2d36201b"><img src="7-5-혼자였다면-못했을생각들이-생겼다/04.png?v=ff2d36201b" alt="7-5-혼자였다면-못했을생각들이-생겼다 4장" loading="lazy"></a><a href="7-5-혼자였다면-못했을생각들이-생겼다/05.png?v=ee09d364d9"><img src="7-5-혼자였다면-못했을생각들이-생겼다/05.png?v=ee09d364d9" alt="7-5-혼자였다면-못했을생각들이-생겼다 5장" loading="lazy"></a><a href="7-5-혼자였다면-못했을생각들이-생겼다/06.png?v=91441a97fa"><img src="7-5-혼자였다면-못했을생각들이-생겼다/06.png?v=91441a97fa" alt="7-5-혼자였다면-못했을생각들이-생겼다 6장" loading="lazy"></a><a href="7-5-혼자였다면-못했을생각들이-생겼다/07.png?v=6c60c5229f"><img src="7-5-혼자였다면-못했을생각들이-생겼다/07.png?v=6c60c5229f" alt="7-5-혼자였다면-못했을생각들이-생겼다 7장" loading="lazy"></a><a href="7-5-혼자였다면-못했을생각들이-생겼다/08.png?v=36e4ffed61"><img src="7-5-혼자였다면-못했을생각들이-생겼다/08.png?v=36e4ffed61" alt="7-5-혼자였다면-못했을생각들이-생겼다 8장" loading="lazy"></a><a href="7-5-혼자였다면-못했을생각들이-생겼다/09.png?v=bb17efc276"><img src="7-5-혼자였다면-못했을생각들이-생겼다/09.png?v=bb17efc276" alt="7-5-혼자였다면-못했을생각들이-생겼다 9장" loading="lazy"></a></div></section><section id="8" hidden><h2>8편 · 독서모임을 하고 생긴 변화</h2><p>7장 · <a href="08-일상의변화/미리보기.html">이 편 보기</a></p><div class="grid"><a href="08-일상의변화/01.png?v=23f6775a01"><img src="08-일상의변화/01.png?v=23f6775a01" alt="08-일상의변화 1장" loading="lazy"></a><a href="08-일상의변화/02.png?v=1e1b2d4c82"><img src="08-일상의변화/02.png?v=1e1b2d4c82" alt="08-일상의변화 2장" loading="lazy"></a><a href="08-일상의변화/03.png?v=e849ab9551"><img src="08-일상의변화/03.png?v=e849ab9551" alt="08-일상의변화 3장" loading="lazy"></a><a href="08-일상의변화/04.png?v=348339682b"><img src="08-일상의변화/04.png?v=348339682b" alt="08-일상의변화 4장" loading="lazy"></a><a href="08-일상의변화/05.png?v=f0ec7dada1"><img src="08-일상의변화/05.png?v=f0ec7dada1" alt="08-일상의변화 5장" loading="lazy"></a><a href="08-일상의변화/06.png?v=713523d819"><img src="08-일상의변화/06.png?v=713523d819" alt="08-일상의변화 6장" loading="lazy"></a><a href="08-일상의변화/07.png?v=fcbc16c5d3"><img src="08-일상의변화/07.png?v=fcbc16c5d3" alt="08-일상의변화 7장" loading="lazy"></a></div></section></main><script>
 const episodes = Array.from(document.querySelectorAll('main > section'));
 const episodeLinks = Array.from(document.querySelectorAll('nav a'));
 function showEpisode() {

diff --git a/docs/social/02-결이맞는사람/미리보기.html b/docs/social/02-결이맞는사람/미리보기.html
@@ -1,4 +1,4 @@
-<!doctype html><html lang="ko"><meta charset="utf-8"><meta name="viewport" content="width=device-width,initial-scale=1"><title>결이 맞는 사람을 어떻게 만날 수 있을까?</title><style>body{max-width:720px;margin:24px auto;padding:0 16px;font:16px/1.7 sans-serif}img{width:100%;height:auto}pre{white-space:pre-wrap}</style><h1>2편 · 결이 맞는 사람을 어떻게 만날 수 있을까?</h1><a href="../전체-미리보기.html#2">전체 미리보기</a><figure><img loading="lazy" src="01.png?v=264bd3b8b0" alt="1장"><figcaption>1 / 9</figcaption></figure><figure><img loading="lazy" src="02.png?v=4cbba1f130" alt="2장"><figcaption>2 / 9</figcaption></figure><figure><img loading="lazy" src="03.png?v=fdcf5b74c9" alt="3장"><figcaption>3 / 9</figcaption></figure><figure><img loading="lazy" src="04.png?v=973f494f32" alt="4장"><figcaption>4 / 9</figcaption></figure><figure><img loading="lazy" src="05.png?v=9de6945f77" alt="5장"><figcaption>5 / 9</figcaption></figure><figure><img loading="lazy" src="06.png?v=71379b246e" alt="6장"><figcaption>6 / 9</figcaption></figure><figure><img loading="lazy" src="07.png?v=acae4ace5d" alt="7장"><figcaption>7 / 9</figcaption></figure><figure><img loading="lazy" src="08.png?v=5f58d21de6" alt="8장"><figcaption>8 / 9</figcaption></figure><figure><img loading="lazy" src="09.png?v=448ca64fa5" alt="9장"><figcaption>9 / 9</figcaption></figure><h2>게시물 캡션</h2><pre>새로운 사람을 만나고 싶었지만, 아무 모임이나 가고 싶지는 않았다.
+<!doctype html><html lang="ko"><meta charset="utf-8"><meta name="viewport" content="width=device-width,initial-scale=1"><title>결이 맞는 사람을 어떻게 만날 수 있을까?</title><style>body{max-width:720px;margin:24px auto;padding:0 16px;font:16px/1.7 sans-serif}img{width:100%;height:auto}pre{white-space:pre-wrap}</style><h1>2편 · 결이 맞는 사람을 어떻게 만날 수 있을까?</h1><a href="../전체-미리보기.html#2">전체 미리보기</a><figure><img loading="lazy" src="01.png?v=264bd3b8b0" alt="1장"><figcaption>1 / 9</figcaption></figure><figure><img loading="lazy" src="02.png?v=4cbba1f130" alt="2장"><figcaption>2 / 9</figcaption></figure><figure><img loading="lazy" src="03.png?v=fdcf5b74c9" alt="3장"><figcaption>3 / 9</figcaption></figure><figure><img loading="lazy" src="04.png?v=07fdb82af9" alt="4장"><figcaption>4 / 9</figcaption></figure><figure><img loading="lazy" src="05.png?v=9de6945f77" alt="5장"><figcaption>5 / 9</figcaption></figure><figure><img loading="lazy" src="06.png?v=71379b246e" alt="6장"><figcaption>6 / 9</figcaption></figure><figure><img loading="lazy" src="07.png?v=acae4ace5d" alt="7장"><figcaption>7 / 9</figcaption></figure><figure><img loading="lazy" src="08.png?v=5f58d21de6" alt="8장"><figcaption>8 / 9</figcaption></figure><figure><img loading="lazy" src="09.png?v=448ca64fa5" alt="9장"><figcaption>9 / 9</figcaption></figure><h2>게시물 캡션</h2><pre>새로운 사람을 만나고 싶었지만, 아무 모임이나 가고 싶지는 않았다.
 여러 자리에 나가봐도 비슷한 소개와 질문만 반복되면 오히려 지쳐 돌아오곤 했다.
 
 독서모임에서는 서로의 생각을 존중하고, 더 나아지고 싶어 하는 사람들을 만났다. 그때의 인연 중에는 지금도 따로 만나 이야기를 나누는 사람들이 있다.
